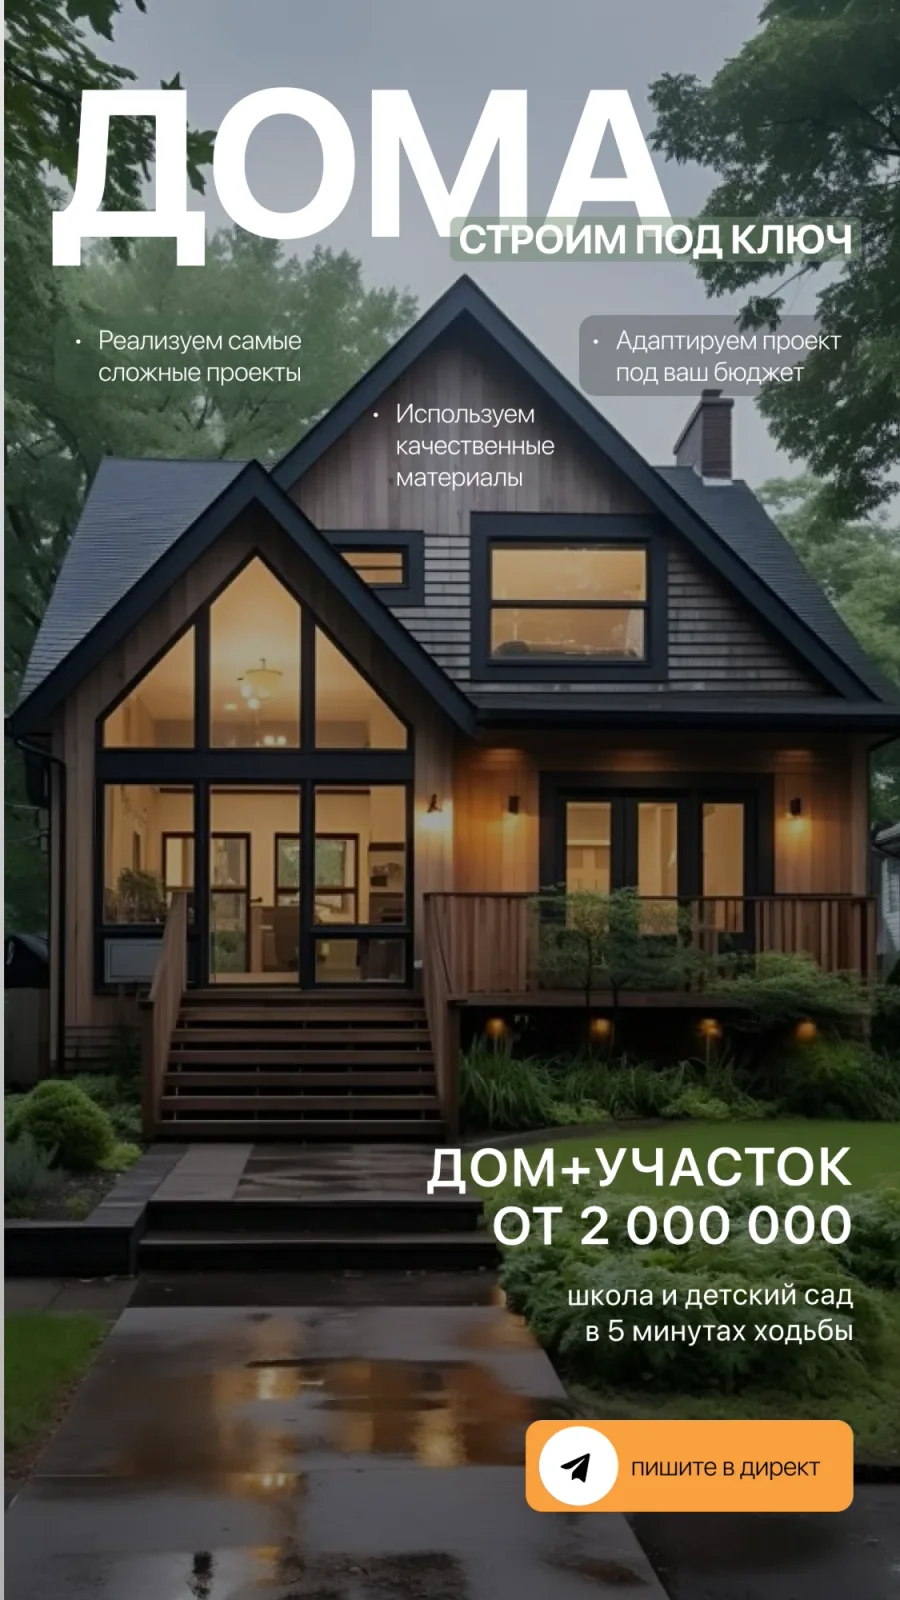
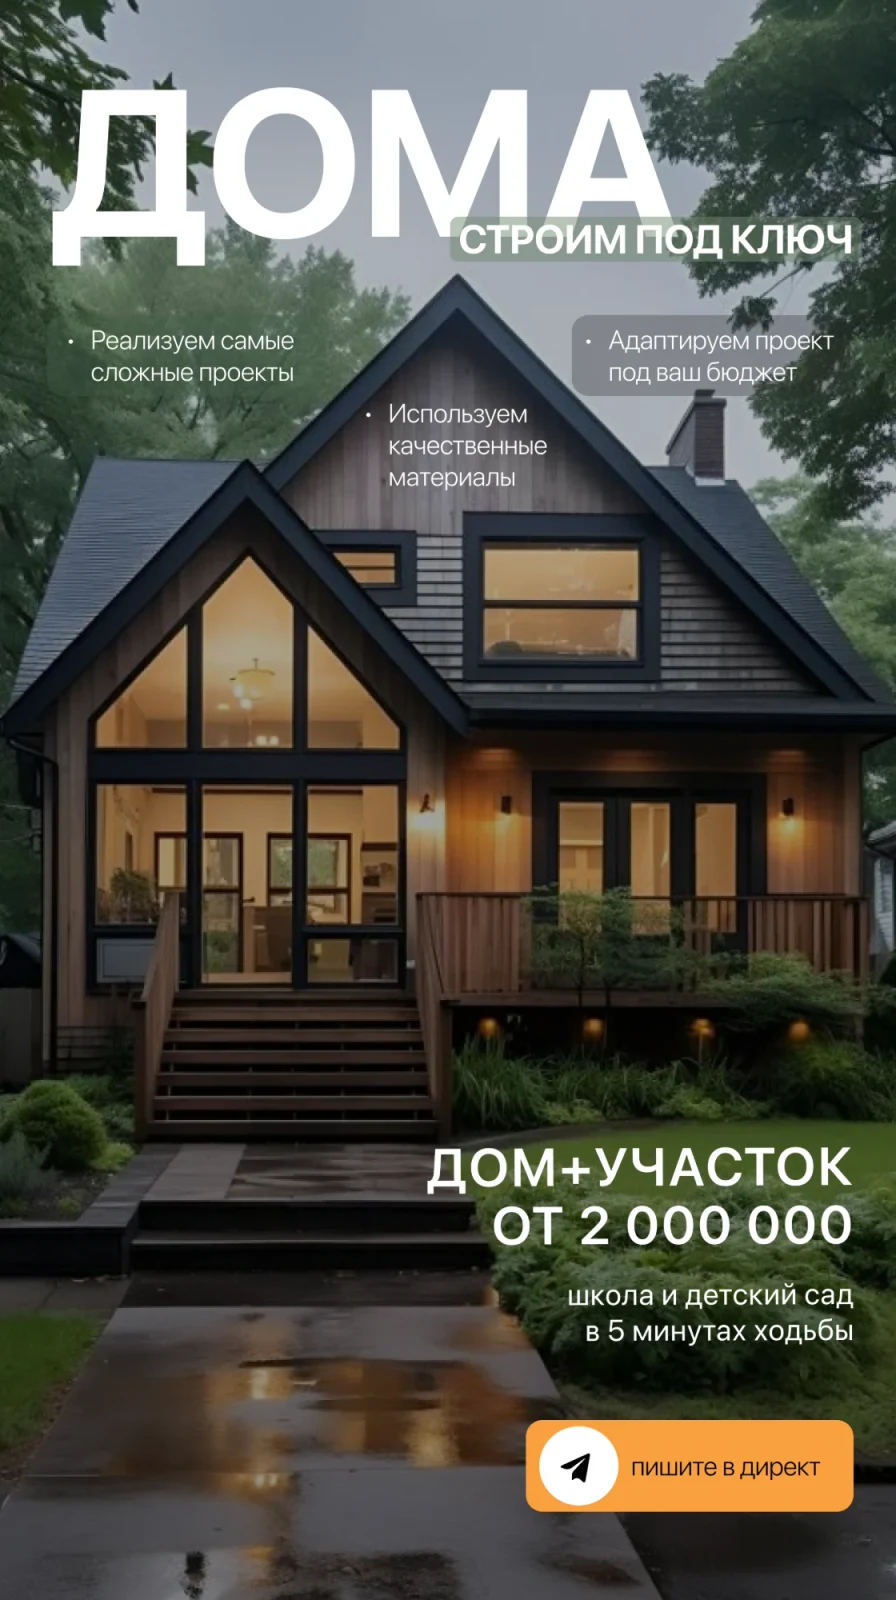
Галерея: заменён баннер «Дома под ключ»

diff --git a/index.html b/index.html
@@ -458,7 +458,7 @@
     <div class="gal__left"><p class="gal__name">«Гуси-лебеди»</p><span class="gal__chip" style="background:#6F7B74"></span></div>
     <p class="gal__desc">афиша</p>
   </div>
-  <script type="application/json" class="gal__data">[{"src":"img/gallery/goose.webp","name":"«Гуси-лебеди»","desc":"афиша","position":{"x":-0.9,"y":0},"accentColor":"#6F7B74"},{"src":"img/gallery/service-blue.webp","name":"Сервиз чайный","desc":"реклама для электронных носителей","position":{"x":0.8,"y":0},"accentColor":"#C8BDAB"},{"src":"img/gallery/porcelain.webp","name":"«Авторский фарфор»","desc":"баннер","position":{"x":-0.7,"y":0},"accentColor":"#A9502C"},{"src":"img/gallery/houses.webp","name":"Дома под ключ","desc":"реклама для электронных носителей","position":{"x":1,"y":0},"accentColor":"#6F7B74"},{"src":"img/gallery/vase.webp","name":"Ваза. Фарфор","desc":"реклама для электронных носителей","position":{"x":-0.7,"y":0},"accentColor":"#C9A27A"},{"src":"img/gallery/burger.webp","name":"Кафе «Бургер-восторг»","desc":"баннер","position":{"x":0.9,"y":0},"accentColor":"#A9502C"},{"src":"img/gallery/service-peach.webp","name":"Фарфоровый сервиз","desc":"реклама для электронных носителей","position":{"x":-0.8,"y":0},"accentColor":"#C8BDAB"},{"src":"img/gallery/music.webp","name":"«Вечера живой музыки»","desc":"афиша","position":{"x":0.7,"y":0},"accentColor":"#A9502C"},{"src":"img/gallery/mugs.webp","name":"Набор кружек","desc":"реклама для электронных носителей","position":{"x":-0.9,"y":0},"accentColor":"#6F7B74"}]</script>
+  <script type="application/json" class="gal__data">[{"src":"img/gallery/goose.webp","name":"«Гуси-лебеди»","desc":"афиша","position":{"x":-0.9,"y":0},"accentColor":"#6F7B74"},{"src":"img/gallery/service-blue.webp","name":"Сервиз чайный","desc":"реклама для электронных носителей","position":{"x":0.8,"y":0},"accentColor":"#C8BDAB"},{"src":"img/gallery/porcelain.webp","name":"«Авторский фарфор»","desc":"баннер","position":{"x":-0.7,"y":0},"accentColor":"#A9502C"},{"src":"img/gallery/houses.webp?v=2","name":"Дома под ключ","desc":"реклама для электронных носителей","position":{"x":1,"y":0},"accentColor":"#6F7B74"},{"src":"img/gallery/vase.webp","name":"Ваза. Фарфор","desc":"реклама для электронных носителей","position":{"x":-0.7,"y":0},"accentColor":"#C9A27A"},{"src":"img/gallery/burger.webp","name":"Кафе «Бургер-восторг»","desc":"баннер","position":{"x":0.9,"y":0},"accentColor":"#A9502C"},{"src":"img/gallery/service-peach.webp","name":"Фарфоровый сервиз","desc":"реклама для электронных носителей","position":{"x":-0.8,"y":0},"accentColor":"#C8BDAB"},{"src":"img/gallery/music.webp","name":"«Вечера живой музыки»","desc":"афиша","position":{"x":0.7,"y":0},"accentColor":"#A9502C"},{"src":"img/gallery/mugs.webp","name":"Набор кружек","desc":"реклама для электронных носителей","position":{"x":-0.9,"y":0},"accentColor":"#6F7B74"}]</script>
   <ul class="gal__list"><li>«Гуси-лебеди» — афиша</li><li>Сервиз чайный — реклама для электронных носителей</li><li>«Авторский фарфор» — баннер</li><li>Дома под ключ — реклама для электронных носителей</li><li>Ваза. Фарфор — реклама для электронных носителей</li><li>Кафе «Бургер-восторг» — баннер</li><li>Фарфоровый сервиз — реклама для электронных носителей</li><li>«Вечера живой музыки» — афиша</li><li>Набор кружек — реклама для электронных носителей</li></ul>
 </section>
 </main>
